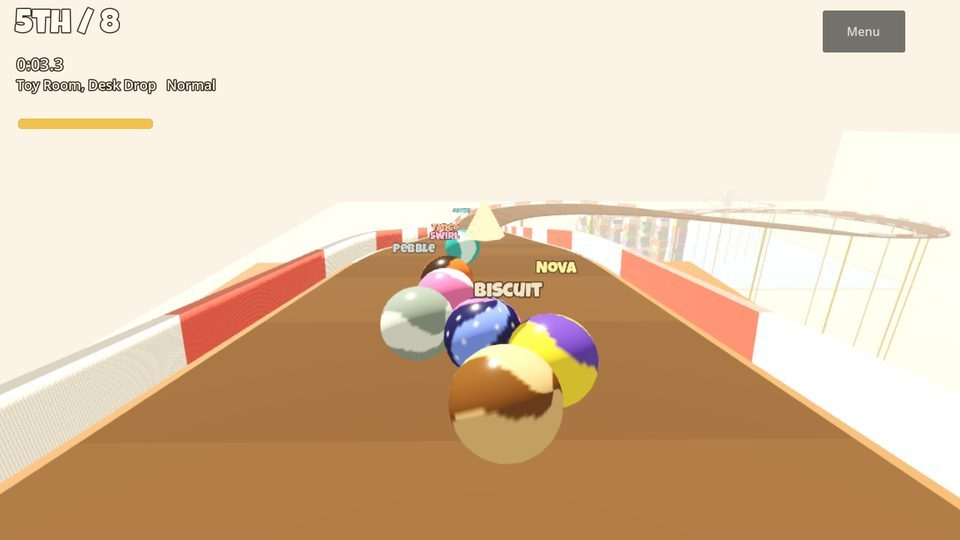
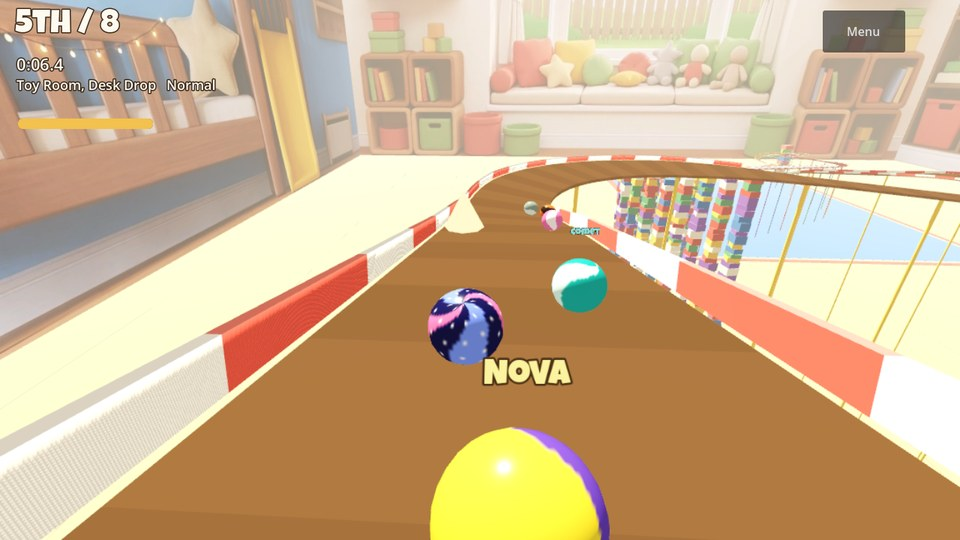
Marble Rush card: 0.6.0, painted Toy Room
Claude-Session: https://claude.ai/code/session_0117TTYD5WXpt3cAAmWAYpQi

diff --git a/index.html b/index.html
@@ -139,11 +139,11 @@ h2 a[href="lo-fi-league/"]{font-size:.9em;word-spacing:.35em}h2 a[href="pixel-ho
 </article>
 
 <article class="card" data-repo="marble-rush">
-<a class="shot" href="marble-rush/"><img src="images/marble-rush.jpg?v=0.5.0" alt="Marble Rush: your Galaxy marble rolls down the Desk Drop in the middle of the pack" width="960" height="540" loading="lazy"></a>
+<a class="shot" href="marble-rush/"><img src="images/marble-rush.jpg?v=0.6.0" alt="Marble Rush: the pack rolls down the Desk Drop toward the painted window seat wall of the Toy Room" width="960" height="540" loading="lazy"></a>
 <div class="body">
 <div class="top"><h2><a href="marble-rush/">Marble Rush</a></h2><span class="tag">Eight marbles, one gate, first to the bucket</span></div>
-<p class="desc">Eight glass marbles drop from a gate and race down one long track. Pick the Toy Room or the Kitchen and steer yours to the finish. Hold the inside of each curve, hop over bumpers and save a short boost for the straights. Earn three stars a race or race your own ghost in Time trial. Roll off an edge and you drop back at the last checkpoint. Coins buy new marbles. Easy, Normal and Hard. Five save slots. Touch, keyboard or Xbox controller, upright or sideways.</p>
-<p class="meta">Browser and Android<span class="ver"> · Version 0.5.0</span> <span class="upd">· Updated <time datetime="2026-11-20T17:08-06:00">Nov 20, 2026, 5:08 PM CT</time></span></p>
+<p class="desc">Eight glass marbles drop from a gate and race down one long track. Pick the Toy Room, now a painted room with a window seat, toy shelves, a bunk bed and a chalkboard, or the Kitchen and steer yours to the finish. Hold the inside of each curve, hop over bumpers and save a short boost for the straights. Earn three stars a race or race your own ghost in Time trial. Roll off an edge and you drop back at the last checkpoint. Coins buy new marbles. Easy, Normal and Hard. Five save slots. Touch, keyboard or Xbox controller, upright or sideways.</p>
+<p class="meta">Browser and Android<span class="ver"> · Version 0.6.0</span> <span class="upd">· Updated <time datetime="2026-11-22T12:49-06:00">Nov 22, 2026, 12:49 PM CT</time></span></p>
 <div class="actions"><a class="btn" href="marble-rush/">Open game page</a></div>
 </div>
 </article>
